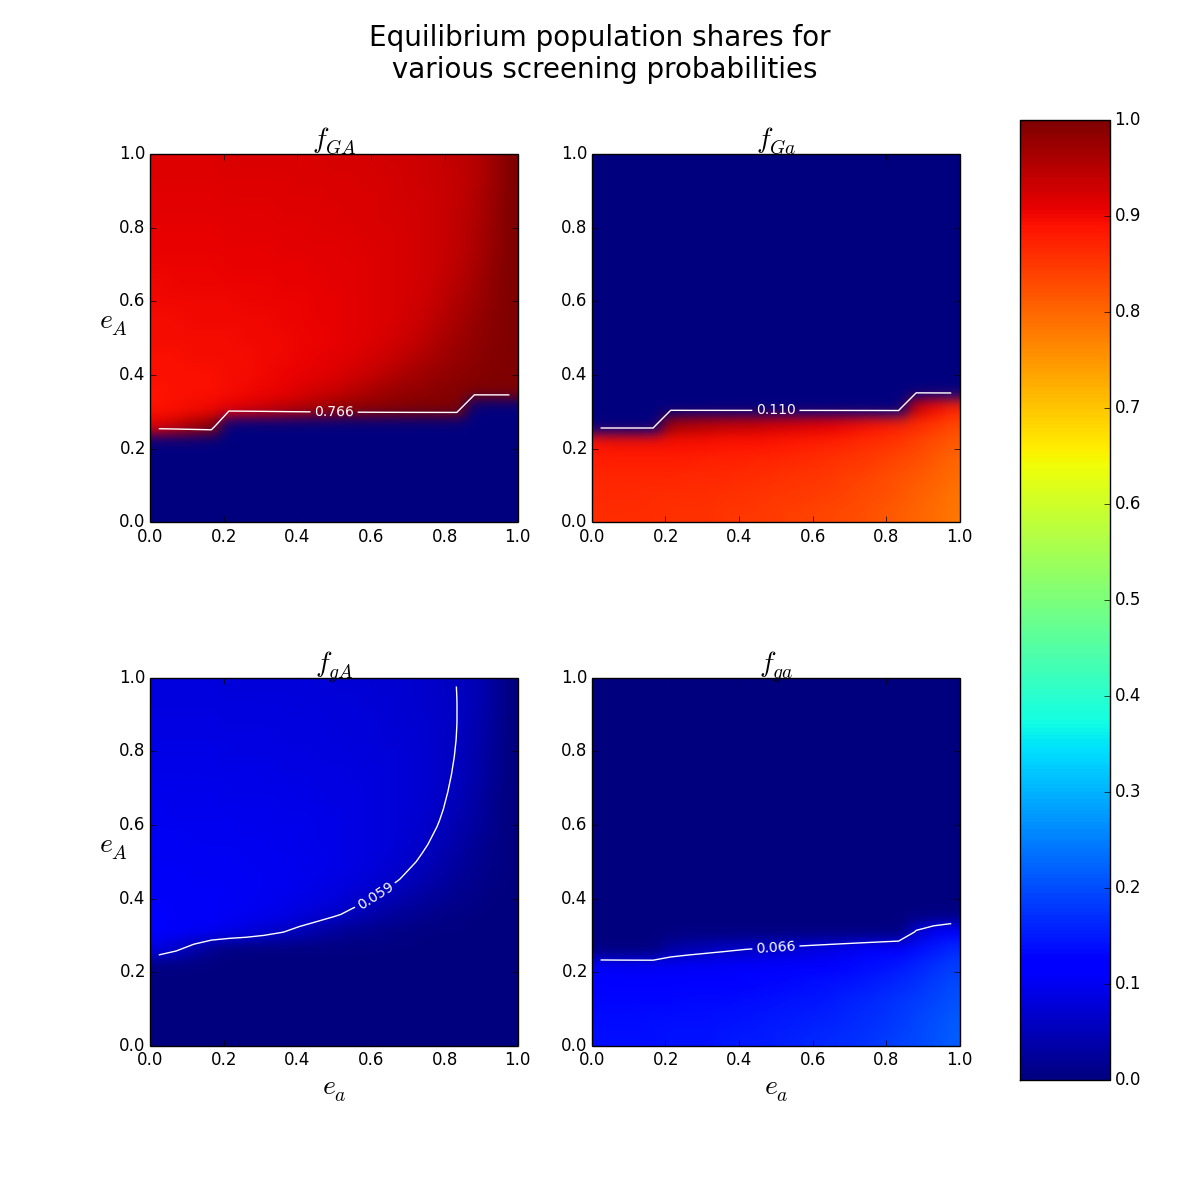
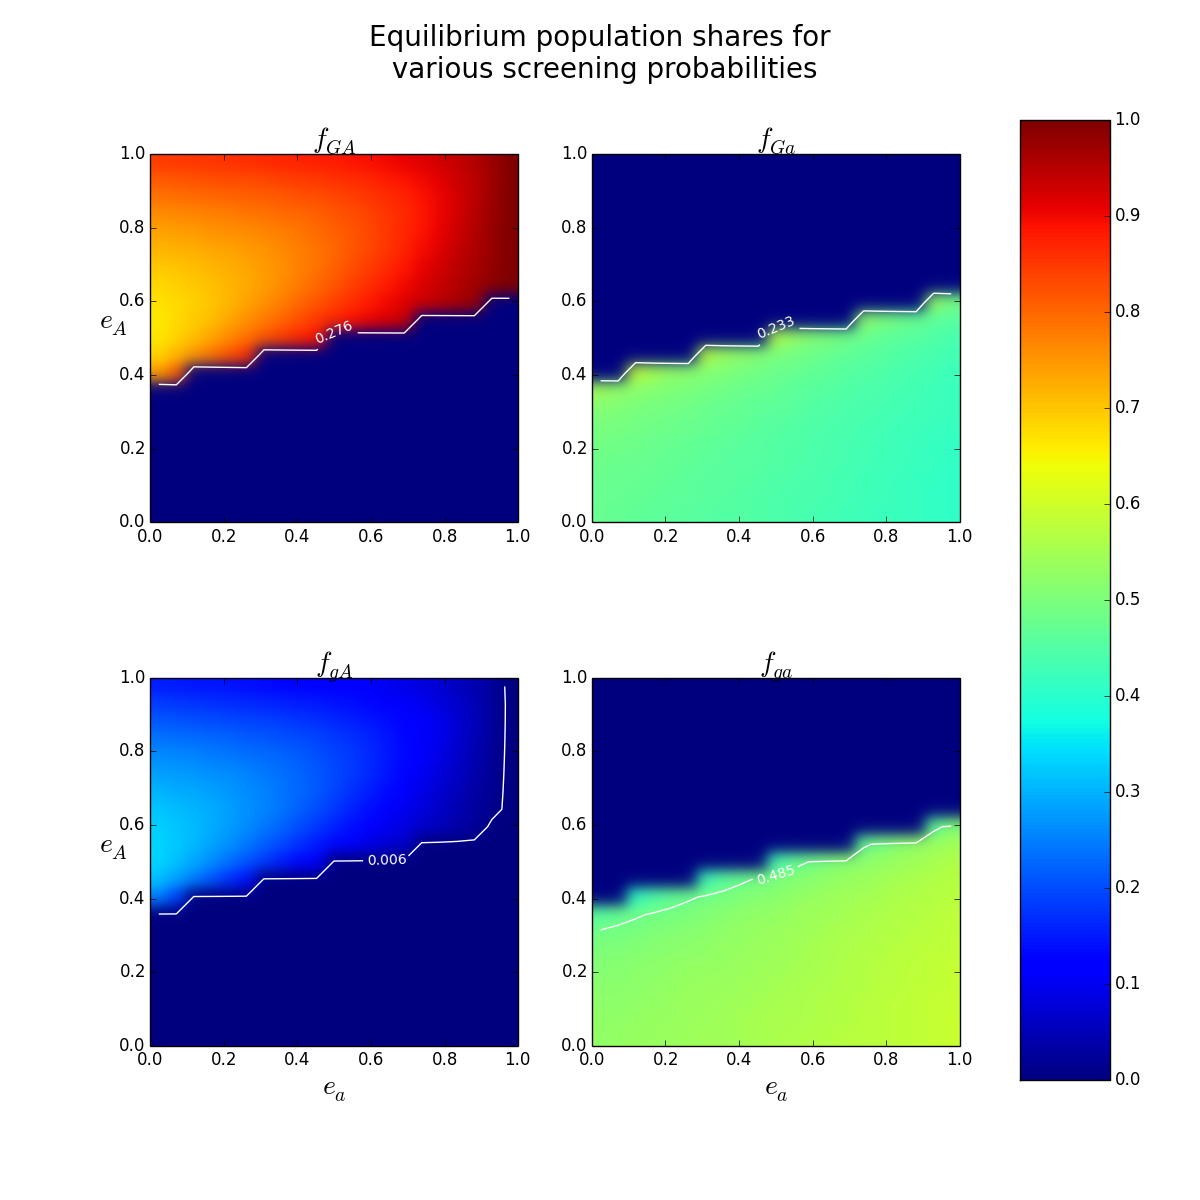
More playing around with parameter sweeps to test the new simulate method.

diff --git a/examples/random-signaling/imperfect_screening_sweep.py b/examples/random-signaling/imperfect_screening_sweep.py
@@ -7,7 +7,7 @@ import matplotlib.pyplot as plt
 from package import model
 
 # fix the initial condition
-prng = np.random.RandomState(12345)
+prng = np.random.RandomState(56789)
 initial_males = prng.dirichlet(np.ones(4), size=1)
 initial_females = initial_males
 initial_condition = np.hstack((initial_males, initial_females))
@@ -31,7 +31,7 @@ for i, eA in enumerate(screening_probs):
 
         # simulate the model to find the equilibrium
         example.params = tmp_params
-        tmp_traj = example.simulate(initial_condition, T=1000)
+        tmp_traj = example.simulate(initial_condition, rtol=1e-4)
 
         # store the results
         results[i, j, :] = tmp_traj[:, -1]
